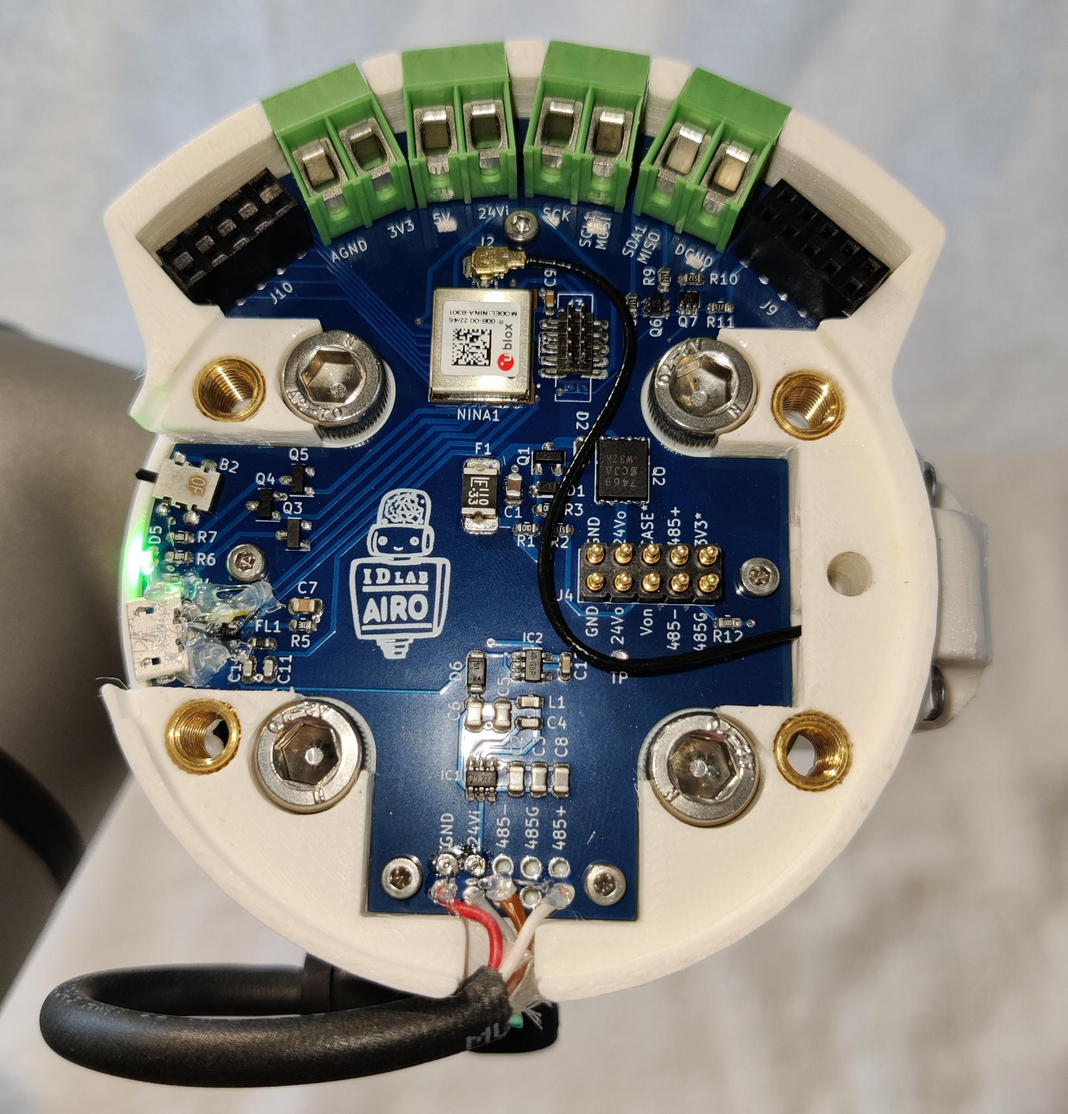
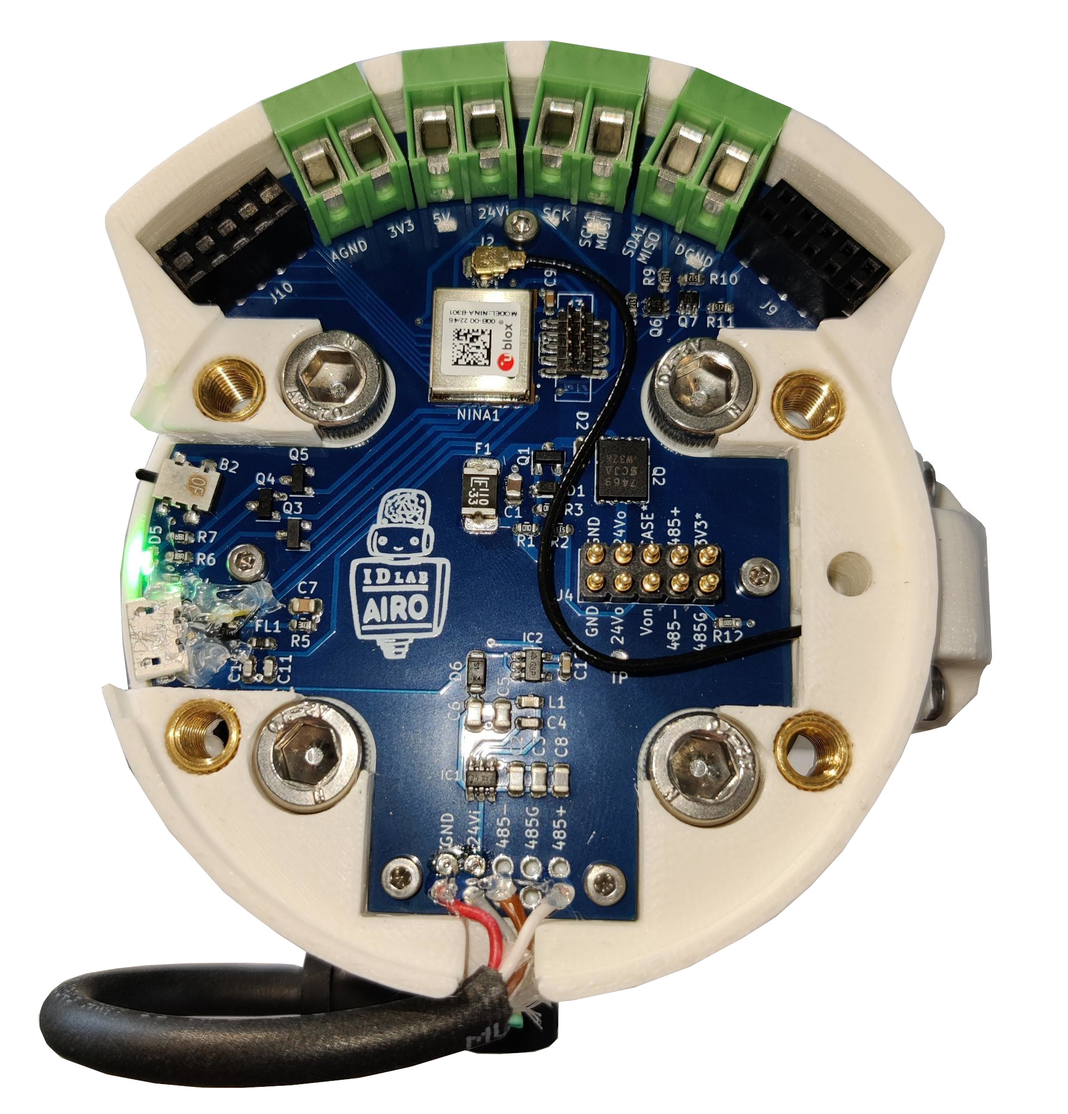
added annotations to internal view of flange

diff --git a/README.md b/README.md
@@ -7,7 +7,7 @@ The Halberd coupling ([paper](https://doi.org/10.48550/arXiv.2309.05792)), named
 This repo contains KiCad board files and SolidWorks casing design files of the project. See below for a guide from ordering to usage. 
 <BR CLEAR="all">
 
-<img align="right" width="270" height="281" src="https://github.com/RemkoPr/airo-halberd/blob/main/img/internal.jpeg">
+<img align="right" width="270" height="281" src="https://github.com/RemkoPr/airo-halberd/blob/main/img/internal_annotated.jpeg">
 
 ## Features
 Our coupling features the safety circuit present on the
@@ -31,6 +31,7 @@ The below graphic indicates how the different parts fit together.
 To program the board, first install the [airo-nrf52840-boards](https://github.com/RemkoPr/airo-nrf52840-boards) package in your Arduino IDE. Compile ("Verify") the standard Blink example (File > Examples > 01.Basics > Blink) for the Halberd (I/O Coupling) board. Find the `Blink.ino.with_bootloader.hex` file by marking `compilation` in `File > Preferences > Show verbose output during` and monitoring the console output after compilation. Flash the .hex onto the board using a [JLink EDU Mini](https://www.segger.com/products/debug-probes/j-link/models/j-link-edu-mini/), which you can connect to the board via the provided 10-pin 1.27mm pitch header next to the Nina-B301. This will automatically flash the Arduino bootloader, and the green LED should start blinking. From this point on you can program the board straight from the Arduino IDE over a µUSB connection.
 
 <img align="right" width="206" height="281" src="https://github.com/RemkoPr/airo-halberd/blob/main/img/integrated_w_sensor.jpeg">
+
 ### Mounting
 The Halberd coupling is mounted to your robotic arm just like the Robotiq I/O Coupling would be, 
 similarly your Robotiq gripper is bolted to the Halberd just like it would be to the Robotiq I/O Coupling. 
